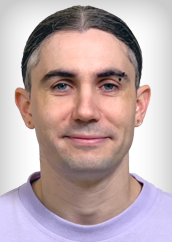
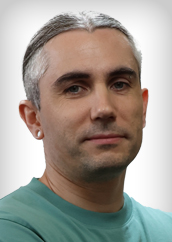
Andrewwaltosssw profile update (#1130)
* Updating CRM guid and content

* Adding aws cert badge

* Adding aws cert to profile

* Updating profile photos

* Adding horizontal separator after badges

diff --git a/Andrew-Waltos/Andrew-Waltos.md b/Andrew-Waltos/Andrew-Waltos.md
@@ -1,16 +1,41 @@
 ---
-id: "ff414a69-2fe8-eb11-bacb-0022481575ab"
+id: "1971846c-a5c4-ee11-9079-000d3acab861"
 
-qualifications: ""
+qualifications: "Bachelor of Information Technology"
 
 quote: "You miss 100% of the shots you don't take"
 quoteAuthor: "Wayne Gretzky"
 ---
 
-Andrew is completing a Bachelor of Information Technology at RMIT for a career change after 10+ years as a mechanic.
+[[imgBadge]]
+| ![](../badges/Developer-react.png)
 
-He is passionate about learning as much as possible in the world of software development to help solve all sorts of problems for clients.
+[[imgBadge]]
+| ![](../badges/Developer-angular.png)
 
-So far he has contributed to maintenance and development of [SSW TimePro](https://sswtimepro.com) and is looking forward to working on some of the many fun and challenging projects that come through SSW.
+[[imgBadge]]
+| ![](../badges/Developer-c-sharp.png)
 
-When not working or studying, Andrew is playing video games 🕹, learning French 🥐 or practising violin 🎻.
+[[imgBadge]]
+| ![](../badges/Developer-dotnet-core.png)
+
+[[imgBadge]]
+| ![](../badges/Developer-github.png)
+
+[[imgBadge]]
+| ![](../badges/Business-microsoft-azure.png)
+
+[[imgBadge]]
+| ![](../badges/Certification-aws-cloud-practitioner-foundational.png)
+
+---
+
+After switching from a career in the automotive trade, Andrew has already accomplished a lot in Software Development, specializing in Frontend using React and Angular. His expertise extends to Backend development with .NET and proficiency in cloud technologies, particularly AWS and Azure.
+
+Andrew has successfully delivered impactful solutions for large global clients and national government entities. His versatile skill set has enabled him to navigate complex projects, consistently meeting and exceeding client expectations.
+
+Beyond his technical prowess, Andrew has a keen interest in great design and is passionate about ensuring accessibility in websites. He believes that combining functionality with an intuitive and aesthetically pleasing design is crucial for creating a positive UX.
+
+Andrew is committed to leveraging modern methods and frameworks to create lasting and efficient tech solutions. His dedication to accessibility highlights his belief in inclusive design, making technology accessible to all users.
+
+When not working or learning, Andrew is playing video games 🕹, learning French 🥐 or practising violin 🎻.
